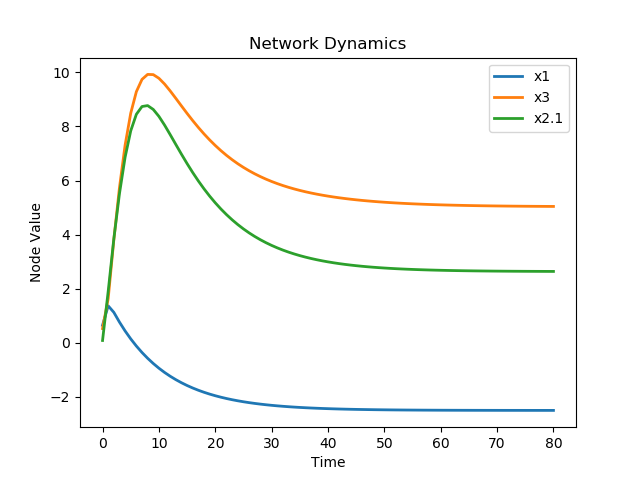
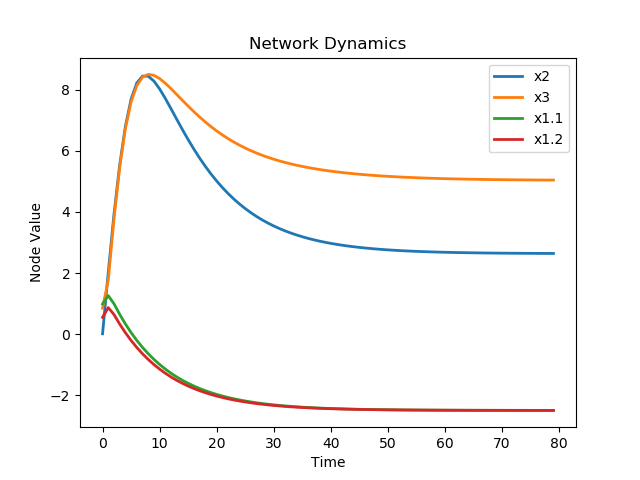
new test examples

diff --git a/workbook2.py b/workbook2.py
@@ -1,0 +1,72 @@
+import specializer as s
+import ranker as r
+import numpy as np
+from importlib import reload
+import networkx as nx
+import matplotlib.pyplot as plt
+import time
+
+if __name__ == "__main__":
+    reload(s)
+    A = np.array([
+        [0,1,0,0,1],
+        [1,0,0,0,0],
+        [1,0,0,1,1],
+        [0,1,1,0,1],
+        [0,0,1,1,0]
+    ])
+    labelsA = ['x1','x2','x3','x4','x5']
+
+    B = np.array([
+        [0,1,0],
+        [1,0,1],
+        [1,1,0]
+    ])
+    labelsB = ['y1','y2','y3']
+
+    def sig(x):
+        return np.tanh(x)
+    def sig2(x):
+        return 2*np.tanh(x)
+    def zero(x):
+        return 0*x
+    def func1(x):
+        return 0.5*x
+    def func2(x):
+        return 0.25*x
+    def func3(x):
+        return 0.5*x
+    def func4(x):
+        return 0.5*x
+    def func5(x):
+        return 0.5*x
+
+    f = np.array([
+        [zero,sig,zero,zero,sig],
+        [sig,zero,zero,zero,zero],
+        [sig,zero,zero,sig,sig],
+        [zero,sig,sig,zero,sig],
+        [zero,zero,sig,sig,zero]
+    ])
+    a = np.array([func1,func2,func3,func4,func5])
+
+    # G = s.DirectedGraph(A, (a,f), labels=labelsA)
+    # G.iterate(80, np.random.random(G.n)*100, graph=True, save_img=True, title="test2")
+
+    # G.specialize(['x1','x2'])
+    # G.iterate(80, np.random.random(G.n)*100, graph=True, save_img=True, title="test2 spec 1")
+
+    h = np.array([
+        [zero,func1,zero],
+        [func1,zero,func1],
+        [func1,func1,zero]
+    ])
+    a1 = np.array([zero,zero,zero])
+    H = s.DirectedGraph(B, (a1,h), labels=labelsB)
+    H.iterate(80, np.random.random(H.n)*10, graph=True, save_img=True, title='test_ex2')
+
+    H.specialize(['y1','y2'])
+    print(H.A)
+    print(H.labeler)
+    print(H.eigen_centrality())
+    H.iterate(80, np.random.random(H.n)*10, graph=True, save_img=True, title='test_ex2 spec 1')

diff --git a/workbook.py b/workbook.py
@@ -82,17 +82,19 @@ test stuff
     G = s.DirectedGraph(B, (a,f), labels=labels)
     # G.iterate(80, np.random.random(G.n), graph=True, save_img=True, title="3 nodes")
     s = time.time()
-    x = G.iterate(800, [1,1,1], graph=True, save_img=True, title="CGNN")
+    x = G.iterate(800, [1,1,1], graph=False, save_img=True, title="CGNN")
     e = time.time()
     print(e-s)
     # print(G.eigen_centrality())
 
-    # G.specialize(['x2', 'x3'], verbose=False)
-    # G.iterate(80, np.random.random(G.n), graph=True, save_img=True, title='spec on x2, x3')
+    G.specialize(['x1', 'x2'], verbose=False)
+    G.iterate(80, np.random.random(G.n), graph=False, save_img=True, title='spec on x1, x2')
     # print(G.eigen_centrality())
 
-    # G.specialize(['x1.1', 'x1.2', 'x2'], verbose=False)
-    # G.iterate(80, np.random.random(G.n)*10, graph=True, save_img=True, title='spec on x11, x12, x2')
+    print(G.A)
+    print(G.labeler)
+    G.specialize(['x2', 'x3.1', 'x3.2'], verbose=False)
+    G.iterate(80, np.random.random(G.n)*10, graph=True, save_img=True, title='spec on x2, x31, x32')
     # print(G.eigen_centrality())
 
     # G.specialize(['x1.1', 'x1.2', 'x2'], verbose=False)

diff --git a/workbook3.py b/workbook3.py
@@ -1,0 +1,33 @@
+import specializer as s
+import ranker as r
+import numpy as np
+from importlib import reload
+import networkx as nx
+import matplotlib.pyplot as plt
+import time
+
+if __name__ == "__main__":
+    reload(s)
+    A = np.array([
+        [0,0,0,1],
+        [1,0,1,0],
+        [1,1,0,0],
+        [0,1,1,0]
+    ])
+    labelsA = ['x1','x2','x3','x4']
+    def sig(x):
+        return np.tanh(x)
+    def zero(x):
+        return 0*x
+    f = np.array([
+        [zero,zero,zero,sig],
+        [sig,zero,sig,zero],
+        [sig,sig,zero,zero],
+        [zero,sig,sig,zero]
+    ])
+    a = np.array([zero,zero,zero,zero])
+    G = s.DirectedGraph(A, (a,f), labels=labelsA)
+    G.iterate(80, np.random.random(G.n)*100, graph=True, save_img=True, title="test_simple")
+
+    G.specialize(['x1','x4'])
+    G.iterate(80, np.random.random(G.n)*100, graph=True, save_img=True, title="test_simple_spec1")
